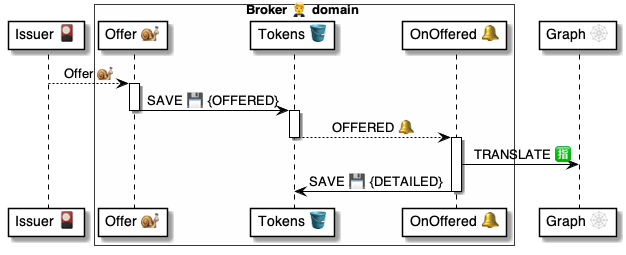
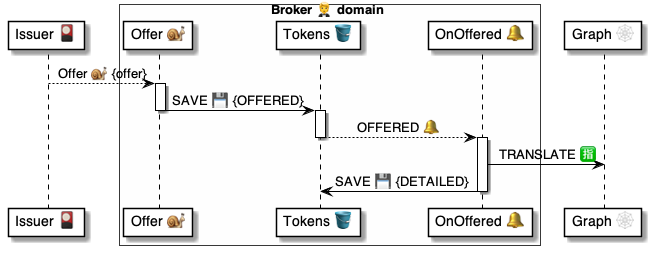
.

diff --git a/4 ⚙ Solution/20 🧑🦰 UI/Notifiers 📣/📣🅰 Notifier methods/Tokens 🎫 Save 🤵🐌📣/📣 Save 🐌 msg.md b/4 ⚙ Solution/20 🧑🦰 UI/Notifiers 📣/📣🅰 Notifier methods/Tokens 🎫 Save 🤵🐌📣/📣 Save 🐌 msg.md
@@ -25,8 +25,7 @@ Header:
 Body:
     Wallet: <wallet-id>
     Issuer: any-issuer.dom
-    Hook: <hook-uuid>
-    Token: <token-uuid>
+    Offer: <offer-uuid>
 ```
 
 |Object|Property|Type|Description | Origin | Purpose
@@ -37,5 +36,21 @@ Body:
 |Body  |`Wallet`| uuid | [Wallet 🧑🦰](<../../../Wallets 🧑🦰/🧑🦰 Wallet app/🧑🦰 Wallet 🛠 app.md>) | [`Onboard@`](<../Wallets 🧑🦰 Onboard 🧑🦰🚀📣/📣 Onboard 🚀 call.md>)
 ||`Issuer`|text| [Issuer 🎴](<../../../../41 🎭 Domain Roles/Issuers 🎴/🎴 Issuer/🎴🎭 Issuer role.md>) domain  | [`Offer@`](<../../../Brokers 🤵/🤵🅰 Broker methods/Tokens 🎫 Offer 🎴🐌🤵/🤵 Offer 🐌 msg.md>) | [`Issued@`](<../../../../41 🎭 Domain Roles/Issuers 🎴/🎴🅰 Issuer methods/Issued 🧑🦰🚀🎴/🎴 Issued 🚀 call.md>)
 ||`Hook`|uuid| [Issuer 🎴](<../../../../41 🎭 Domain Roles/Issuers 🎴/🎴 Issuer/🎴🎭 Issuer role.md>) Hook | [`Offer@`](<../../../Brokers 🤵/🤵🅰 Broker methods/Tokens 🎫 Offer 🎴🐌🤵/🤵 Offer 🐌 msg.md>) | [`Issued@`](<../../../../41 🎭 Domain Roles/Issuers 🎴/🎴🅰 Issuer methods/Issued 🧑🦰🚀🎴/🎴 Issued 🚀 call.md>)
-|| `Token`| uuid | New [Token 🎫](<../../../../30 🧩 Data/Tokens 🎫/🎫 Token/🎫 Token.md>) | | [`Saved@`](<../../../Brokers 🤵/🤵🅰 Broker methods/Tokens 🎫 Saved 🧑🦰🐌🤵/🤵 Saved 🐌 msg.md>)
 | 
+
+<br/>
+
+## FAQ
+
+
+1. **Why not send the Token ID at the Broker?**
+
+    The objective is to avoid replay attacks from [Wallet 🧑🦰 apps](<../../../Wallets 🧑🦰/🧑🦰 Wallet app/🧑🦰 Wallet 🛠 app.md>) purposefully breaking the [`Save Token` ⏩ flow](<../../../Wallets 🧑🦰/🧑🦰💬 Wallet chats/...in Prompts 🤔/Save Token 👉🎴🎫/🧑🦰 Save token ⏩ flow.md>) halfway to collected repeated [Tokens 🎫](<../../../../30 🧩 Data/Tokens 🎫/🎫 Token/🎫 Token.md>).
+
+    |||
+    |-|-
+    |`Offer`| This is a pointer to the [Token 🎫](<../../../../30 🧩 Data/Tokens 🎫/🎫 Token/🎫 Token.md>) at the [Issuer 🎴 domain](<../../../../41 🎭 Domain Roles/Issuers 🎴/🎴 Issuer/🎴🎭 Issuer role.md>), allowing [Wallet 🧑🦰 apps](<../../../Wallets 🧑🦰/🧑🦰 Wallet app/🧑🦰 Wallet 🛠 app.md>) to collect all [Token 🎫](<../../../../30 🧩 Data/Tokens 🎫/🎫 Token/🎫 Token.md>) details except for the `Key`. It's only used in the [`Offer`](<../../../../30 🧩 Data/Manifests 📜/📜🧩 Manifest schemas/🧩 OFFER.md>) flow.
+    |`Key`| Contains the unique identifier of the [Token 🎫](<../../../../30 🧩 Data/Tokens 🎫/🎫 Token/🎫 Token.md>) at the [Issuer 🎴 domain](<../../../../41 🎭 Domain Roles/Issuers 🎴/🎴 Issuer/🎴🎭 Issuer role.md>). [Brokers 🤵](<../../../Brokers 🤵/🤵 Broker helper/🤵 Broker 🤲 helper.md>) keep this `Key` hidden from [Wallet 🧑🦰 apps](<../../../Wallets 🧑🦰/🧑🦰 Wallet app/🧑🦰 Wallet 🛠 app.md>) until there is a [`Query@Broker`](<../../../Brokers 🤵/🤵🅰 Broker methods/Share 💼 Query 💼🐌🤵/🤵 Query 🐌 msg.md>) message that triggers the [`Share@Notifier`](<../../../Notifiers 📣/📣🅰 Notifier methods/Tokens 🎫 Share 🤵🐌📣/📣 Share 🐌 msg.md>) message. Even if there are multiple [`Offer@Broker`](<../../../Brokers 🤵/🤵🅰 Broker methods/Tokens 🎫 Offer 🎴🐌🤵/🤵 Offer 🐌 msg.md>) calls, only the first `Key` will be sent to the [Wallet 🧑🦰 app](<../../../Wallets 🧑🦰/🧑🦰 Wallet app/🧑🦰 Wallet 🛠 app.md>) via [`Share@Notifier`](<../../../Notifiers 📣/📣🅰 Notifier methods/Tokens 🎫 Share 🤵🐌📣/📣 Share 🐌 msg.md>).
+
+    ---
+    <br/>

diff --git a/4 ⚙ Solution/20 🧑🦰 UI/Brokers 🤵/🤵🅰 Broker methods/Tokens 🎫 Offer 🎴🐌🤵/🤵 Offer 🐌 msg.md b/4 ⚙ Solution/20 🧑🦰 UI/Brokers 🤵/🤵🅰 Broker methods/Tokens 🎫 Offer 🎴🐌🤵/🤵 Offer 🐌 msg.md
@@ -30,11 +30,10 @@ Header:
   
 Body:
     Chat: <chat-uuid>
-    Hook: <hook-uuid>
+    Token: <token-uuid>
     Schema: any-authority.dom/ANY-SCHEMA:1.0
     Starts: 2018-12-10T13:45:00.000Z
     Expires: 2018-12-10T13:45:00.000Z
-    Key: token-1234
 ```
 
 |Object|Property|Type|Description|Origin|Purpose
@@ -43,25 +42,16 @@ Body:
 ||`To`|text| [Broker 🤵](<../../🤵 Broker helper/🤵 Broker 🤲 helper.md>) | [`Hello@`](<../../../../41 🎭 Domain Roles/Hosts 🤗/🤗🅰 Host methods/Hello 🤵🐌🤗/🤗 Hello 🐌 msg.md>)
 ||`Subject`|text|`Offer@Broker`
 |Body  |`Chat` |uuid  | [Chat 💬](<../../../../35 💬 Chats/Chats 💬/💬 Chat.md>) ID | [`Hello@`](<../../../../41 🎭 Domain Roles/Hosts 🤗/🤗🅰 Host methods/Hello 🤵🐌🤗/🤗 Hello 🐌 msg.md>)
-| |`Hook` |uuid  | [Issuer 🎴](<../../../../41 🎭 Domain Roles/Issuers 🎴/🎴 Issuer/🎴🎭 Issuer role.md>) Hook || [`Issued@`](<../../../../41 🎭 Domain Roles/Issuers 🎴/🎴🅰 Issuer methods/Issued 🧑🦰🚀🎴/🎴 Issued 🚀 call.md>) [`Accepted@`](<../../../../41 🎭 Domain Roles/Issuers 🎴/🎴🅰 Issuer methods/Accepted 🤵🐌🎴/🎴 Accepted 🐌 msg.md>)
-|      |`Schema`   |text| [Schema 🧩](<../../../../30 🧩 Data/Codes 🧩/🧩 Schema Code.md>)| |[`Query@`](<../Share 💼 Query 💼🐌🤵/🤵 Query 🐌 msg.md>)     
-| | `Key` |text| [Issuer 🎴](<../../../../41 🎭 Domain Roles/Issuers 🎴/🎴 Issuer/🎴🎭 Issuer role.md>) Key || [`Share@`](<../../../Notifiers 📣/📣🅰 Notifier methods/Tokens 🎫 Share 🤵🐌📣/📣 Share 🐌 msg.md>)
-|      |`Starts` |time| Valid from | | [`Query@`](<../Share 💼 Query 💼🐌🤵/🤵 Query 🐌 msg.md>)
-|      |`Expires`|time| Valid until| | [`Query@`](<../Share 💼 Query 💼🐌🤵/🤵 Query 🐌 msg.md>)
+| |`Token` |uuid  | [Token 🎫](<../../../../30 🧩 Data/Tokens 🎫/🎫 Token/🎫 Token.md>) key || [`Issued@`](<../../../../41 🎭 Domain Roles/Issuers 🎴/🎴🅰 Issuer methods/Issued 🧑🦰🚀🎴/🎴 Issued 🚀 call.md>) [`Accepted@`](<../../../../41 🎭 Domain Roles/Issuers 🎴/🎴🅰 Issuer methods/Accepted 🤵🐌🎴/🎴 Accepted 🐌 msg.md>) [`Share@`](<../../../Notifiers 📣/📣🅰 Notifier methods/Tokens 🎫 Share 🤵🐌📣/📣 Share 🐌 msg.md>)
+|      |`Schema`   |text| [Schema 🧩](<../../../../30 🧩 Data/Codes 🧩/🧩 Schema Code.md>)| |[`Query@Broker`](<../Share 💼 Query 💼🐌🤵/🤵 Query 🐌 msg.md>)     
+|      |`Starts` |time| Valid from | | [`Query@Broker`](<../Share 💼 Query 💼🐌🤵/🤵 Query 🐌 msg.md>)
+|      |`Expires`|time| Valid until| | [`Query@Broker`](<../Share 💼 Query 💼🐌🤵/🤵 Query 🐌 msg.md>)
 |
 
 <br/>
 
 ## FAQ
 
-1. **What is the `Key` properties for?**
-
-    This is the `Key` of the [Token 🎫](<../../../../30 🧩 Data/Tokens 🎫/🎫 Token/🎫 Token.md>).
-    * It is required for matching the signature when sharing. 
-    * Only the [Broker 🤵 domain](<../../🤵 Broker helper/🤵 Broker 🤲 helper.md>) keeps this information to avoid replay attacks from [Wallet 🧑🦰 apps](<../../../Wallets 🧑🦰/🧑🦰 Wallet app/🧑🦰 Wallet 🛠 app.md>) purposefully breaking the [`Save Token` ⏩ flow](<../../../Wallets 🧑🦰/🧑🦰💬 Wallet chats/...in Prompts 🤔/Save Token 👉🎴🎫/🧑🦰 Save token ⏩ flow.md>) halfway to collected repeated [Tokens 🎫](<../../../../30 🧩 Data/Tokens 🎫/🎫 Token/🎫 Token.md>).
-
-    ---
-    <br/>
 
 1. **What are the `Schema` and `Times` properties for?**
 

diff --git a/4 ⚙ Solution/41 🎭 Domain Roles/Issuers 🎴/🎴🅰 Issuer methods/Issued 🧑🦰🚀🎴/🎴 Issued 🚀 call.md b/4 ⚙ Solution/41 🎭 Domain Roles/Issuers 🎴/🎴🅰 Issuer methods/Issued 🧑🦰🚀🎴/🎴 Issued 🚀 call.md
@@ -25,7 +25,7 @@ Header:
     Subject: Token@Issuer
     
 Body:
-    Hook: <hook-uuid>
+    Offer: <offer-uuid>
 ```
 
 |Object |Property |Type|Description | Origin 
@@ -33,7 +33,7 @@ Body:
 |Header |`From`|text| `Anonymous`
 |       |`To`|string  | [Issuer 🎴](<../../🎴 Issuer/🎴🎭 Issuer role.md>) | [`Save@Notifier`](<../../../../20 🧑🦰 UI/Notifiers 📣/📣🅰 Notifier methods/Tokens 🎫 Save 🤵🐌📣/📣 Save 🐌 msg.md>)
 ||`Subject`|text|`Token@Issuer` 
-| Body | `Hook`|text| [Issuer 🎴](<../../🎴 Issuer/🎴🎭 Issuer role.md>) Hook | [`Save@Notifier`](<../../../../20 🧑🦰 UI/Notifiers 📣/📣🅰 Notifier methods/Tokens 🎫 Save 🤵🐌📣/📣 Save 🐌 msg.md>)
+| Body | `Offer`|text| [Issuer 🎴](<../../🎴 Issuer/🎴🎭 Issuer role.md>) Hook | [`Save@Notifier`](<../../../../20 🧑🦰 UI/Notifiers 📣/📣🅰 Notifier methods/Tokens 🎫 Save 🤵🐌📣/📣 Save 🐌 msg.md>)
 |
 
 <br/>
@@ -55,12 +55,3 @@ Schema: airlines.any-igo.dom/SSR/WCH:1
 <br/>
 
 
-## FAQ
-
-1. **Why isn't the `Token` ID property in the response?**
-
-    At this point, the [Issuer 🎴](<../../🎴 Issuer/🎴🎭 Issuer role.md>) doesn't know the `Token` yet.
-    * That information will be given later in [`Accepted@Issuer`](<../Accepted 🤵🐌🎴/🎴 Accepted 🐌 msg.md>).
-
-    ---
-    <br/>

diff --git a/4 ⚙ Solution/20 🧑🦰 UI/Brokers 🤵/🤵🅰 Broker methods/Tokens 🎫 Offer 🎴🐌🤵/🤵 Offer 📃 handler.md b/4 ⚙ Solution/20 🧑🦰 UI/Brokers 🤵/🤵🅰 Broker methods/Tokens 🎫 Offer 🎴🐌🤵/🤵 Offer 📃 handler.md
@@ -18,8 +18,8 @@
 
 # Assert the required inputs
 - ASSERT|$.Msg:
-    - AllOf: Chat, Hook, Schema
-    - UUIDs: Chat, Hook
+    - AllOf: Chat, Token, Schema
+    - UUIDs: Chat, Token
     - Texts: Schema
     - Times: Starts, Expires
     - Starts.IsBelow(Expires)
@@ -41,7 +41,7 @@
     .State: OFFERED
     Wallet: $chat.Wallet.ID
     Chat: $.Msg.Chat
-    Hook: $.Msg.Hook
+    Token: $.Msg.Token
     Issuer: $.Msg.From
     Schema: $.Msg.Schema
     Starts: $.Msg.Starts
